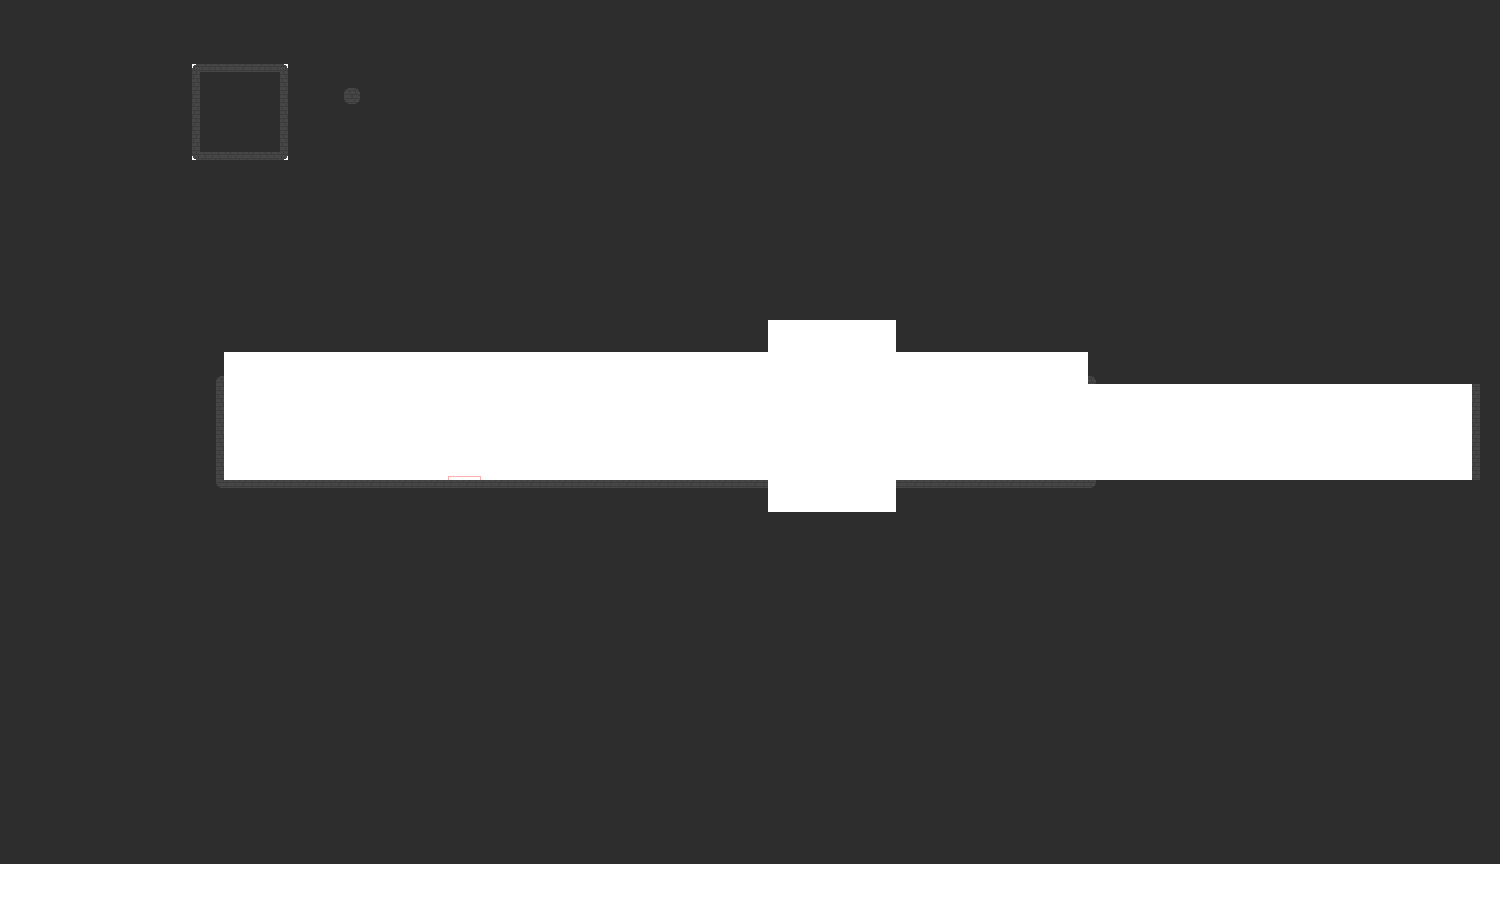
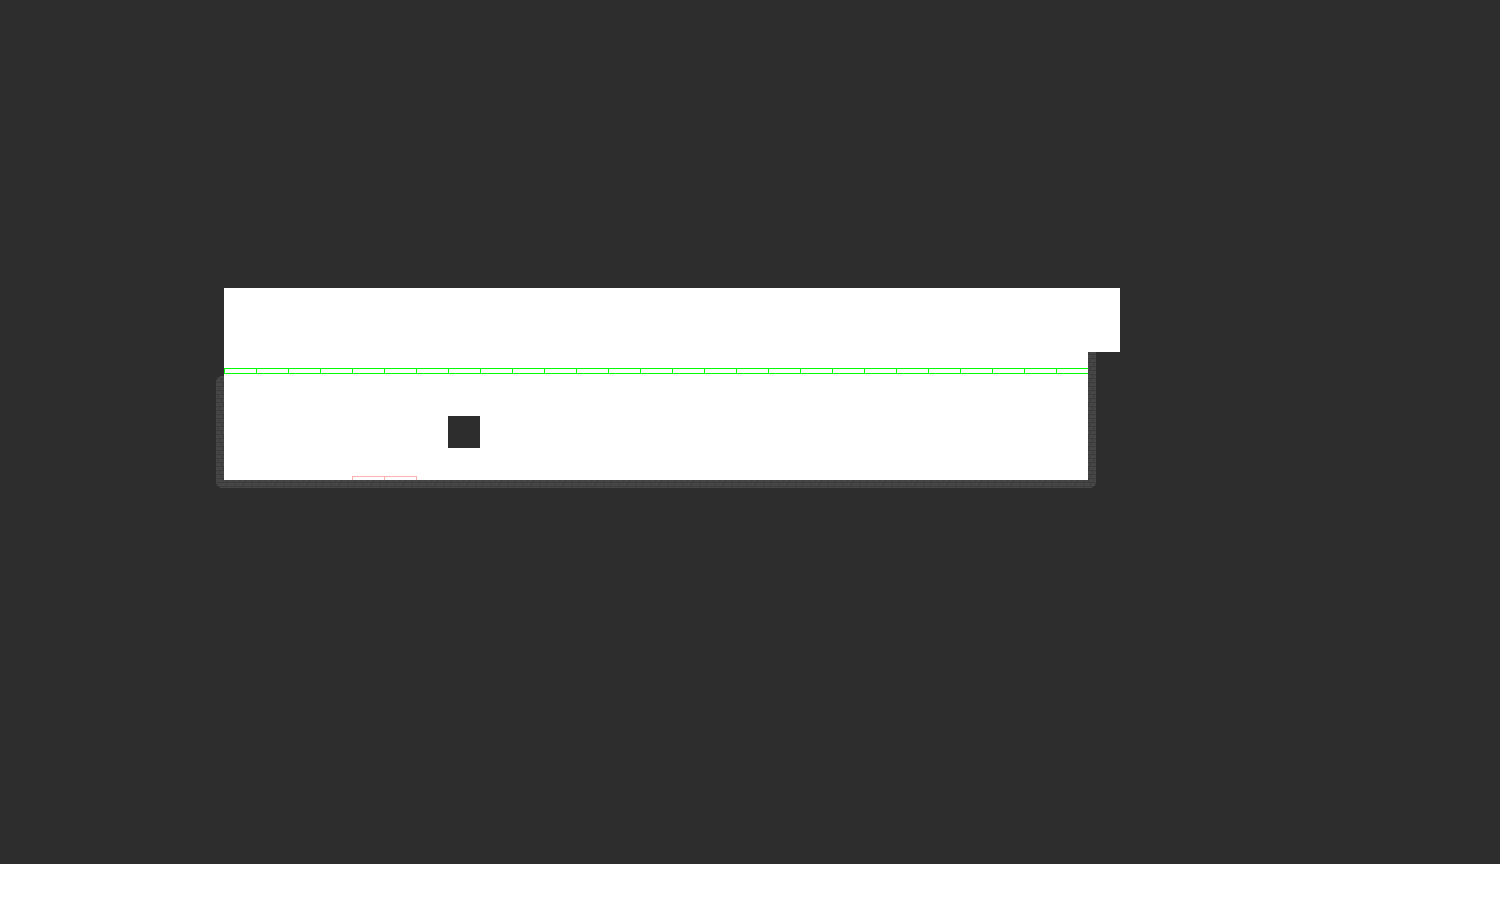
Added levels and made it so that the wizard ability is a transparent image of the wizard

diff --git a/src/Wizard.java b/src/Wizard.java
@@ -1,5 +1,6 @@
 import java.awt.*;
 import java.awt.event.KeyEvent;
+import java.awt.image.BufferedImage;
 
 public class Wizard extends Player {
 
@@ -39,7 +40,16 @@ public class Wizard extends Player {
     public void draw(Graphics2D g) {
         super.draw(g);
         if (abilityActive) {
-            g.drawRect(storedX, storedY, 10, 10);
+            BufferedImage image = null;
+            if (super.isFacingRight()) {
+                image = super.getStandR().getSubimage(24, 21, 15, 23);
+            }
+            else {
+                image = super.getStandL().getSubimage(24, 21, 15, 23);
+            }
+            g.setComposite(AlphaComposite.getInstance(AlphaComposite.SRC_OVER, .5f));
+            g.drawImage(image, storedX, storedY, 30, 46, null);
+            g.setComposite(AlphaComposite.getInstance(AlphaComposite.SRC_OVER, 1f));
         }
     }
 

diff --git a/src/LevelSelectionPanel.java b/src/LevelSelectionPanel.java
@@ -53,6 +53,8 @@ public class LevelSelectionPanel extends JPanel implements MouseListener {
         levels[2][4] = new Rectangle(450, 350, 50, 50);
         levels[3][0] = new Rectangle(50, 450, 50, 50);
         levels[3][1] = new Rectangle(150, 450, 50, 50);
+        levels[3][2] = new Rectangle(250, 450, 50, 50);
+        levels[3][3] = new Rectangle(350, 450, 50, 50);
 
     }
     public void update() {
